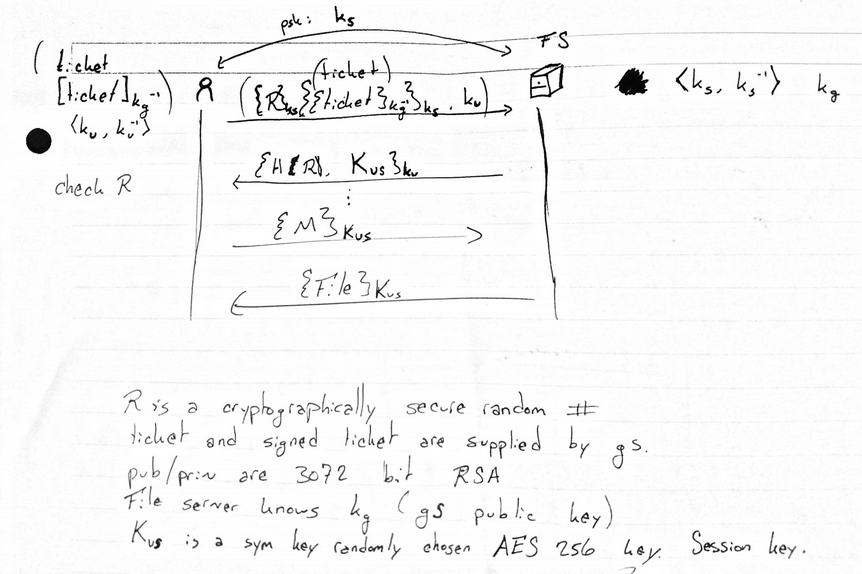
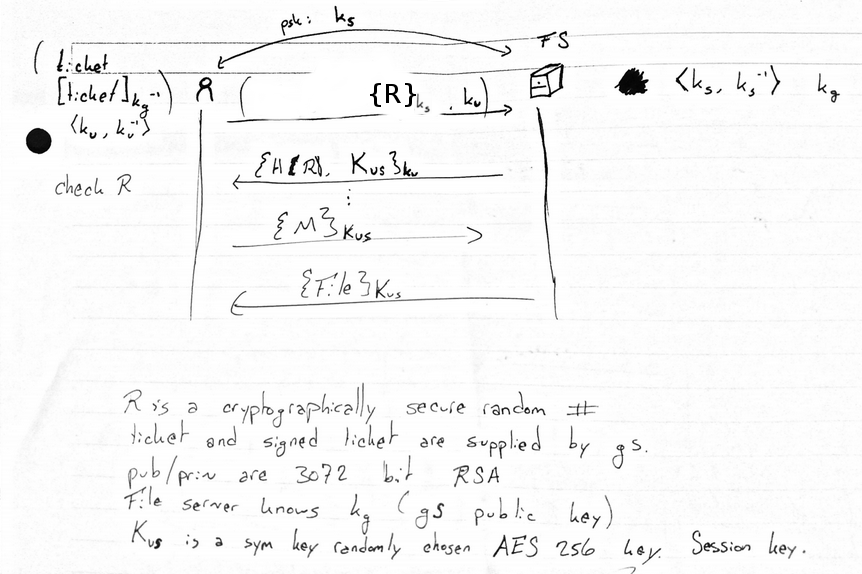
writeup

Changed region(s): [[0.2715, 0.0889, 0.5128, 0.2369]]

diff --git a/doc/phase3-writeup.htm b/doc/phase3-writeup.htm
@@ -71,7 +71,7 @@ Yijia Cui: yic66@pitt.edu       Conor Curry: clc231@pitt.edu
 
 <p>We must be assured that unauthorized file servers may not pose as legitimate servers. An illegitimate file server is a very serious security vulnerability, as it could easily perform man-in-the-middle attacks by impersonating the file server to the user, and impersonating the user to the file server. This would allow it to not only corrupt files, but modify them in transit, or even completely fabricate them. It would also break confidentiality by being able to see what files the user is requesting from the group server. It also would obviously be able to steal user tokens that were issued by the group server, seriously compromising user security.</p>
 
-<p>The method we will use to confront these issues, and to properly authenticate the file server rely on a hybrid approach involving RSA’s public key cryptography, and AES symmetric keys. We will use highly secure key sizes (3072-bit RSA and 256-bit AES). The authentication between the user and file server will not leak information if trying to authenticate an unauthorized file server, and will be resistant to reflection attacks and man in the middle attacks. This protocol requires that the user is confident that they know the authentic file server’s public key before initiating the procedure. The authorization procedure is as follows:</p>
+<p>The method we will use to confront these issues, and to properly authenticate the file server rely on a hybrid approach involving RSA’s public key cryptography, SHA-256 hashing, and AES symmetric keys. We will use highly secure key sizes (3072-bit RSA and 256-bit AES). The authentication between the user and file server will not leak information if trying to authenticate an unauthorized file server, and will be resistant to reflection attacks and man in the middle attacks. This protocol requires that the user is confident that they know the authentic file server’s public key before initiating the procedure. The authorization procedure is as follows:</p>
 
 <p>The user’s cryptographic material includes the ticket (including ticket signature from the group server) for the user. This needs to remain secret to all except the user, group server, and authentic file servers. The user will also have a RSA keypair. </p>
 
@@ -79,10 +79,13 @@ Yijia Cui: yic66@pitt.edu       Conor Curry: clc231@pitt.edu
 
 <p>The authentication procedure begins with the user initiating a connection with the file server, and sending a secure random number, encrypted with the server’s public key. This is concatenated with the user’s public key.</p>
 
-<p>If authentic, the file server will be able to decrypt the random number. Using the user’s provided public key, the file server will hash the user’s random number by SHA-256 and it will be concatenated with a randomly generated AES256 key, encrypted by the user's public key and signed by the server's private key.</p>
+<p>If authentic, the file server will be able to decrypt the random number. Using the user’s provided public key, the file server will hash the user’s random number by SHA-256 and it will be concatenated with a randomly generated AES256 key. The concatenation of the two is then encrypted with the user's public key.</p>
 
-<p>The user will then hash his/her own random number by SHA-256, and check equality of the provided hashed number with that. If they match, this proves the validity of the file server to the user. Also, the user will verify the digital signature of the encrypted AES key, making sure that the AES key is issued by the file server exactly. The user will then decrypt the encrypted AES key, and the two will be able to begin secured communication of messages and files using the provided AES256 session key.</p>
+<p>The user will then decrypt the server's response using their private key. The user hashes his/her own random number by SHA-256, and check equality of the provided hashed number. If they match, this proves the validity of the file server to the user. Using the AES key, the two will be able to begin secured communication of messages and files using the provided AES256 session key. </p>
 <img src = "fs_authentication.png" alt="Mountain View" style="width:400px;height:228px;">
+
+<p>The fileserver also verifies every subsequent request with the token the user must provide. This will provide another barrier against success of man-in-the-middle attacks.</p>
+
 <p>As long as the user has access to the file server’s public key ahead of time, the server will be able to prove it’s authenticity using the random number challenge, and the user is able to authenticate the file server, by commutativity. The user can verify the identify of the AES key, preventing it to be replaced by the adversary. Furthermore, the hashed number prevents the file server to generate a signature by decrypting a malicious message by its own private key.</p>
 
 <!-- END CHANGES HERE -->
